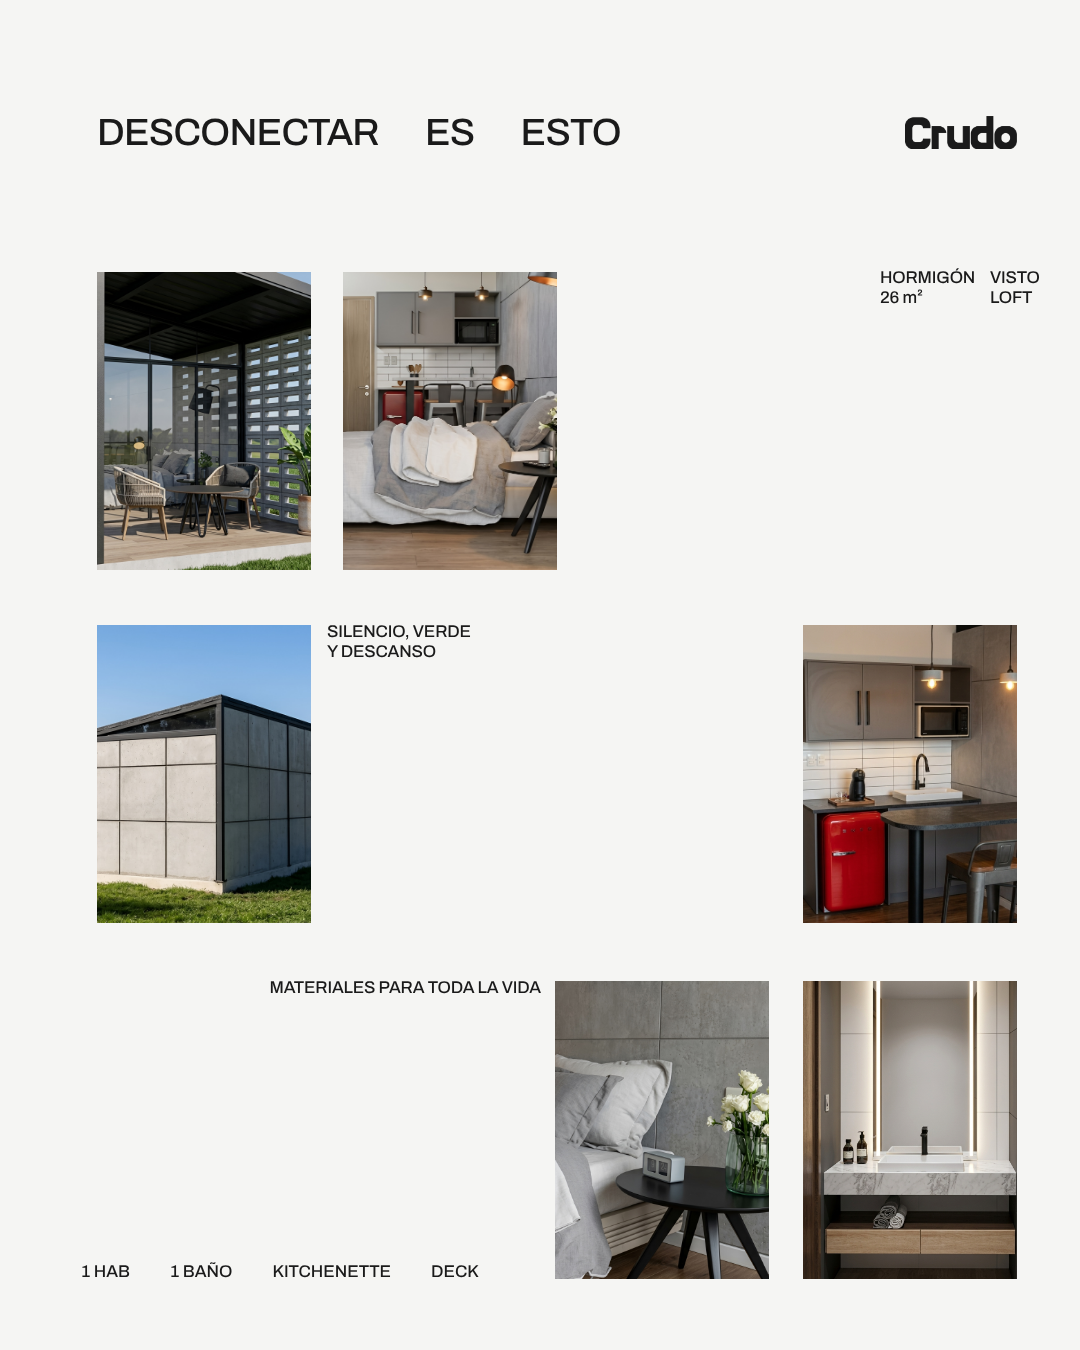
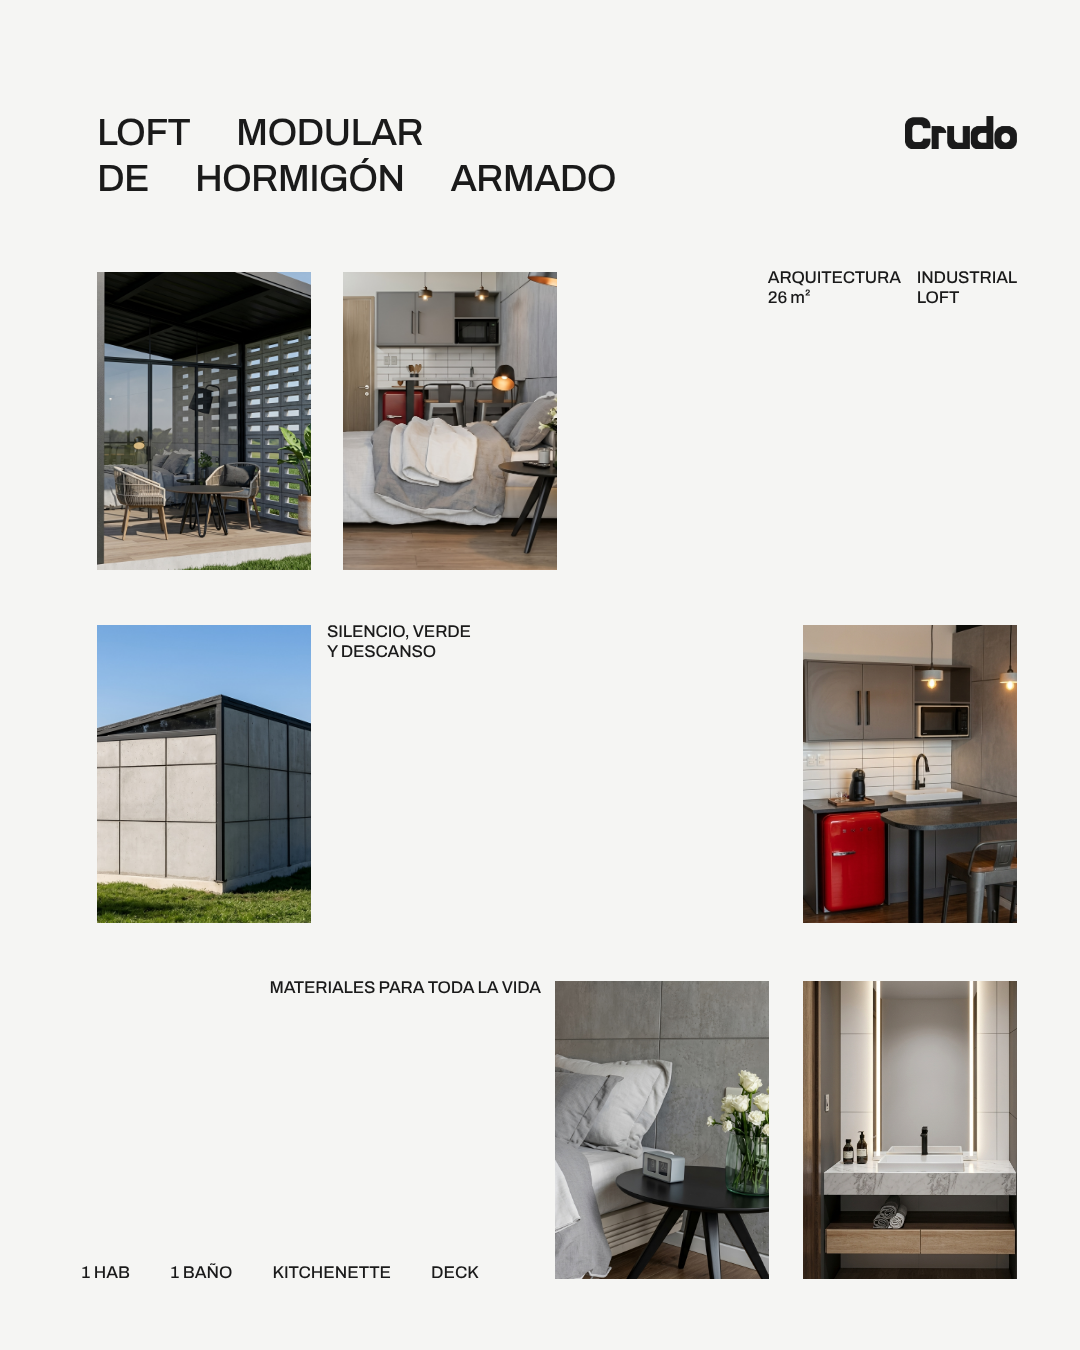
Carruseles: programa completo, títulos y firma nueva, fotos de Diego
Claude-Session: https://claude.ai/code/session_0148DkUn8cZ8yRuXF434YGqr

diff --git a/contenido/plantillas/carrusel_editorial.py b/contenido/plantillas/carrusel_editorial.py
@@ -33,15 +33,15 @@ TIPOLOGIAS = {
         "closeup": ("1-e", "58% 50%"),
     },
     "crudo02": {
-        "titulo": ["Desconectar", "es", "esto"],
-        "col1": ["Hormigón", "26 m²"], "col2": ["visto", "Loft"],
+        "titulo": ["Loft", "modular", "/", "de", "hormigón", "armado"],
+        "col1": ["Arquitectura", "26 m²"], "col2": ["industrial", "Loft"],
         "frase_media": ["Silencio, verde", "y descanso"],
         "frase_material": ["Materiales para toda la vida"],
         "pie": ["1 hab", "1 baño", "kitchenette", "deck"],
         "grilla": [("2-a", "70% 50%"), ("2-b", "70% 50%"), ("2-g", "70% 50%"),
                    ("2-c", "55% 50%"), ("2-e", "75% 50%"), ("2-f", "50% 50%")],
         "exterior": ("2-a", "50% 50%"), "exterior_ajuste": "contain",
-        "exterior_texto": ["1 hab · 1 kitchenette · 1 deck"],
+        "exterior_texto": ["1 hab · 1 baño · 1 kitchenette · 1 deck"],
         "closeup": ("2-b", "72% 50%"),
     },
     "crudo03": {
@@ -49,15 +49,15 @@ TIPOLOGIAS = {
         "col1": ["Hormigón", "66 m²"], "col2": ["armado", "2 hab"],
         "frase_media": ["Mañanas lentas,", "tardes al aire libre"],
         "frase_material": ["Hormigón armado y", "concreto de alto performance"],
-        "pie": ["cocina con isla", "sala comedor", "quincho"],
+        "pie": ["2 hab", "1 baño", "cocina con isla", "sala comedor", "quincho opcional"],
         "grilla": [("3-a", "0% 50%"), ("3-l", "20% 50%"), ("3-b", "85% 50%"),
-                   ("3-g", "75% 50%"), ("3-h", "85% 50%"), ("3-c", "75% 50%")],
+                   ("3-g", "75% 50%"), ("3-h", "85% 50%"), ("3-e", "50% 50%")],
         "exterior": ("3-k", "50% 50%"), "exterior_ajuste": "contain",
-        "exterior_texto": ["2 hab · 1 baño · cocina con isla", "Sala comedor · quincho"],
+        "exterior_texto": ["2 hab · 1 baño · cocina con isla", "Sala comedor · quincho opcional"],
         "closeup": ("3-g", "70% 50%"),
     },
     "crudo04": {
-        "titulo": ["Donde", "el", "tiempo", "baja"],
+        "titulo": ["Tu", "verano", "en", "calma"],
         "col1": ["Hormigón", "85 m²"], "col2": ["visto", "2 hab"],
         "frase_media": ["Naturaleza", "alrededor"],
         "frase_material": ["Arquitectura industrial,", "hecha para durar"],
@@ -66,7 +66,7 @@ TIPOLOGIAS = {
                    ("4-e", "15% 50%"), ("4-h", "40% 50%"), ("4-f", "80% 50%")],
         "exterior": ("4-B", "50% 50%"), "exterior_ajuste": "contain",
         "exterior_texto": ["2 hab · 1 baño · cocina", "Sala comedor · quincho"],
-        "closeup": ("4-e", "18% 50%"),
+        "closeup": ("4-g", "45% 50%"),
     },
 }
 
@@ -108,6 +108,17 @@ def html(clave, t):
     l2_velos = "" if completo else (
         '<div class="velo" style="top:0;height:300px;background:linear-gradient(to bottom, rgb(26 26 26 / 0.5), rgb(26 26 26 / 0))"></div>'
         '<div class="velo" style="bottom:0;height:260px;background:linear-gradient(to top, rgb(26 26 26 / 0.42), rgb(26 26 26 / 0))"></div>')
+    # título: una fila de palabras por línea ("/" corta la línea)
+    lineas, actual = [], []
+    for w in t["titulo"]:
+        if w == "/":
+            lineas.append(actual); actual = []
+        else:
+            actual.append(w)
+    lineas.append(actual)
+    titulo_html = "".join(
+        f'<div class="palabras" style="left:97px;top:{112 + i * 46}px;font-size:38px;letter-spacing:-0.02em;gap:46px">{"".join(f"<span>{w}</span>" for w in ws)}</div>'
+        for i, ws in enumerate(lineas))
     claro = t.get("closeup_claro", False)
     logo_l3 = logo_iron if claro else logo_ala
     velo_l3 = "" if claro else '<div class="velo" style="top:0;height:220px;background:linear-gradient(to bottom, rgb(26 26 26 / 0.35), rgb(26 26 26 / 0))"></div>'
@@ -128,14 +139,13 @@ def html(clave, t):
 </style></head><body>
 
 <section class="lam" id="l1">
-  <div class="palabras" style="left:97px;top:112px;font-size:38px;letter-spacing:-0.02em;gap:46px">{spans(t["titulo"])}</div>
+  {titulo_html}
   <img class="logo" src="{logo_iron}" style="right:63px;top:116px">
   {grilla}
-  <div class="t" style="left:880px;top:268px">{texto(t["col1"])}</div>
-  <div class="t" style="left:990px;top:268px">{texto(t["col2"])}</div>
+  <div class="t" style="right:63px;top:268px;display:flex;gap:16px"><div>{texto(t["col1"])}</div><div>{texto(t["col2"])}</div></div>
   <div class="t" style="left:327px;top:622px">{texto(t["frase_media"])}</div>
   <div class="t" style="right:539px;top:978px;text-align:right">{texto(t["frase_material"])}</div>
-  <div class="palabras" style="left:81px;top:1262px;font-size:17px;gap:{40 if len(t["pie"]) < 5 else 16}px">{spans(t["pie"])}</div>
+  <div class="palabras" style="left:81px;bottom:68px;max-width:440px;flex-wrap:wrap;row-gap:6px;font-size:17px;column-gap:{40 if len(t["pie"]) < 5 else 26}px">{spans(t["pie"])}</div>
 </section>
 
 <section class="{l2_clase}" id="l2">
@@ -144,7 +154,7 @@ def html(clave, t):
   <div class="t" style="left:47px;top:66px;font-size:19px">{nombre}<br>{texto([sup])}</div>
   <div class="t" style="left:420px;top:66px;font-size:19px">{texto(t["exterior_texto"])}</div>
   <img class="logo" src="{l2_logo}" style="right:47px;top:66px">
-  <div class="palabras" style="left:0;right:0;justify-content:center;top:1296px;font-size:19px;gap:40px">{spans(["Un", "sistema,", "no", "una", "obra"])}</div>
+  <div class="palabras" style="left:0;right:0;justify-content:center;top:1296px;font-size:19px;gap:40px">{spans(["Sistema", "constructivo", "y", "fabricación", "propia"])}</div>
 </section>
 
 <section class="lam" id="l3">
